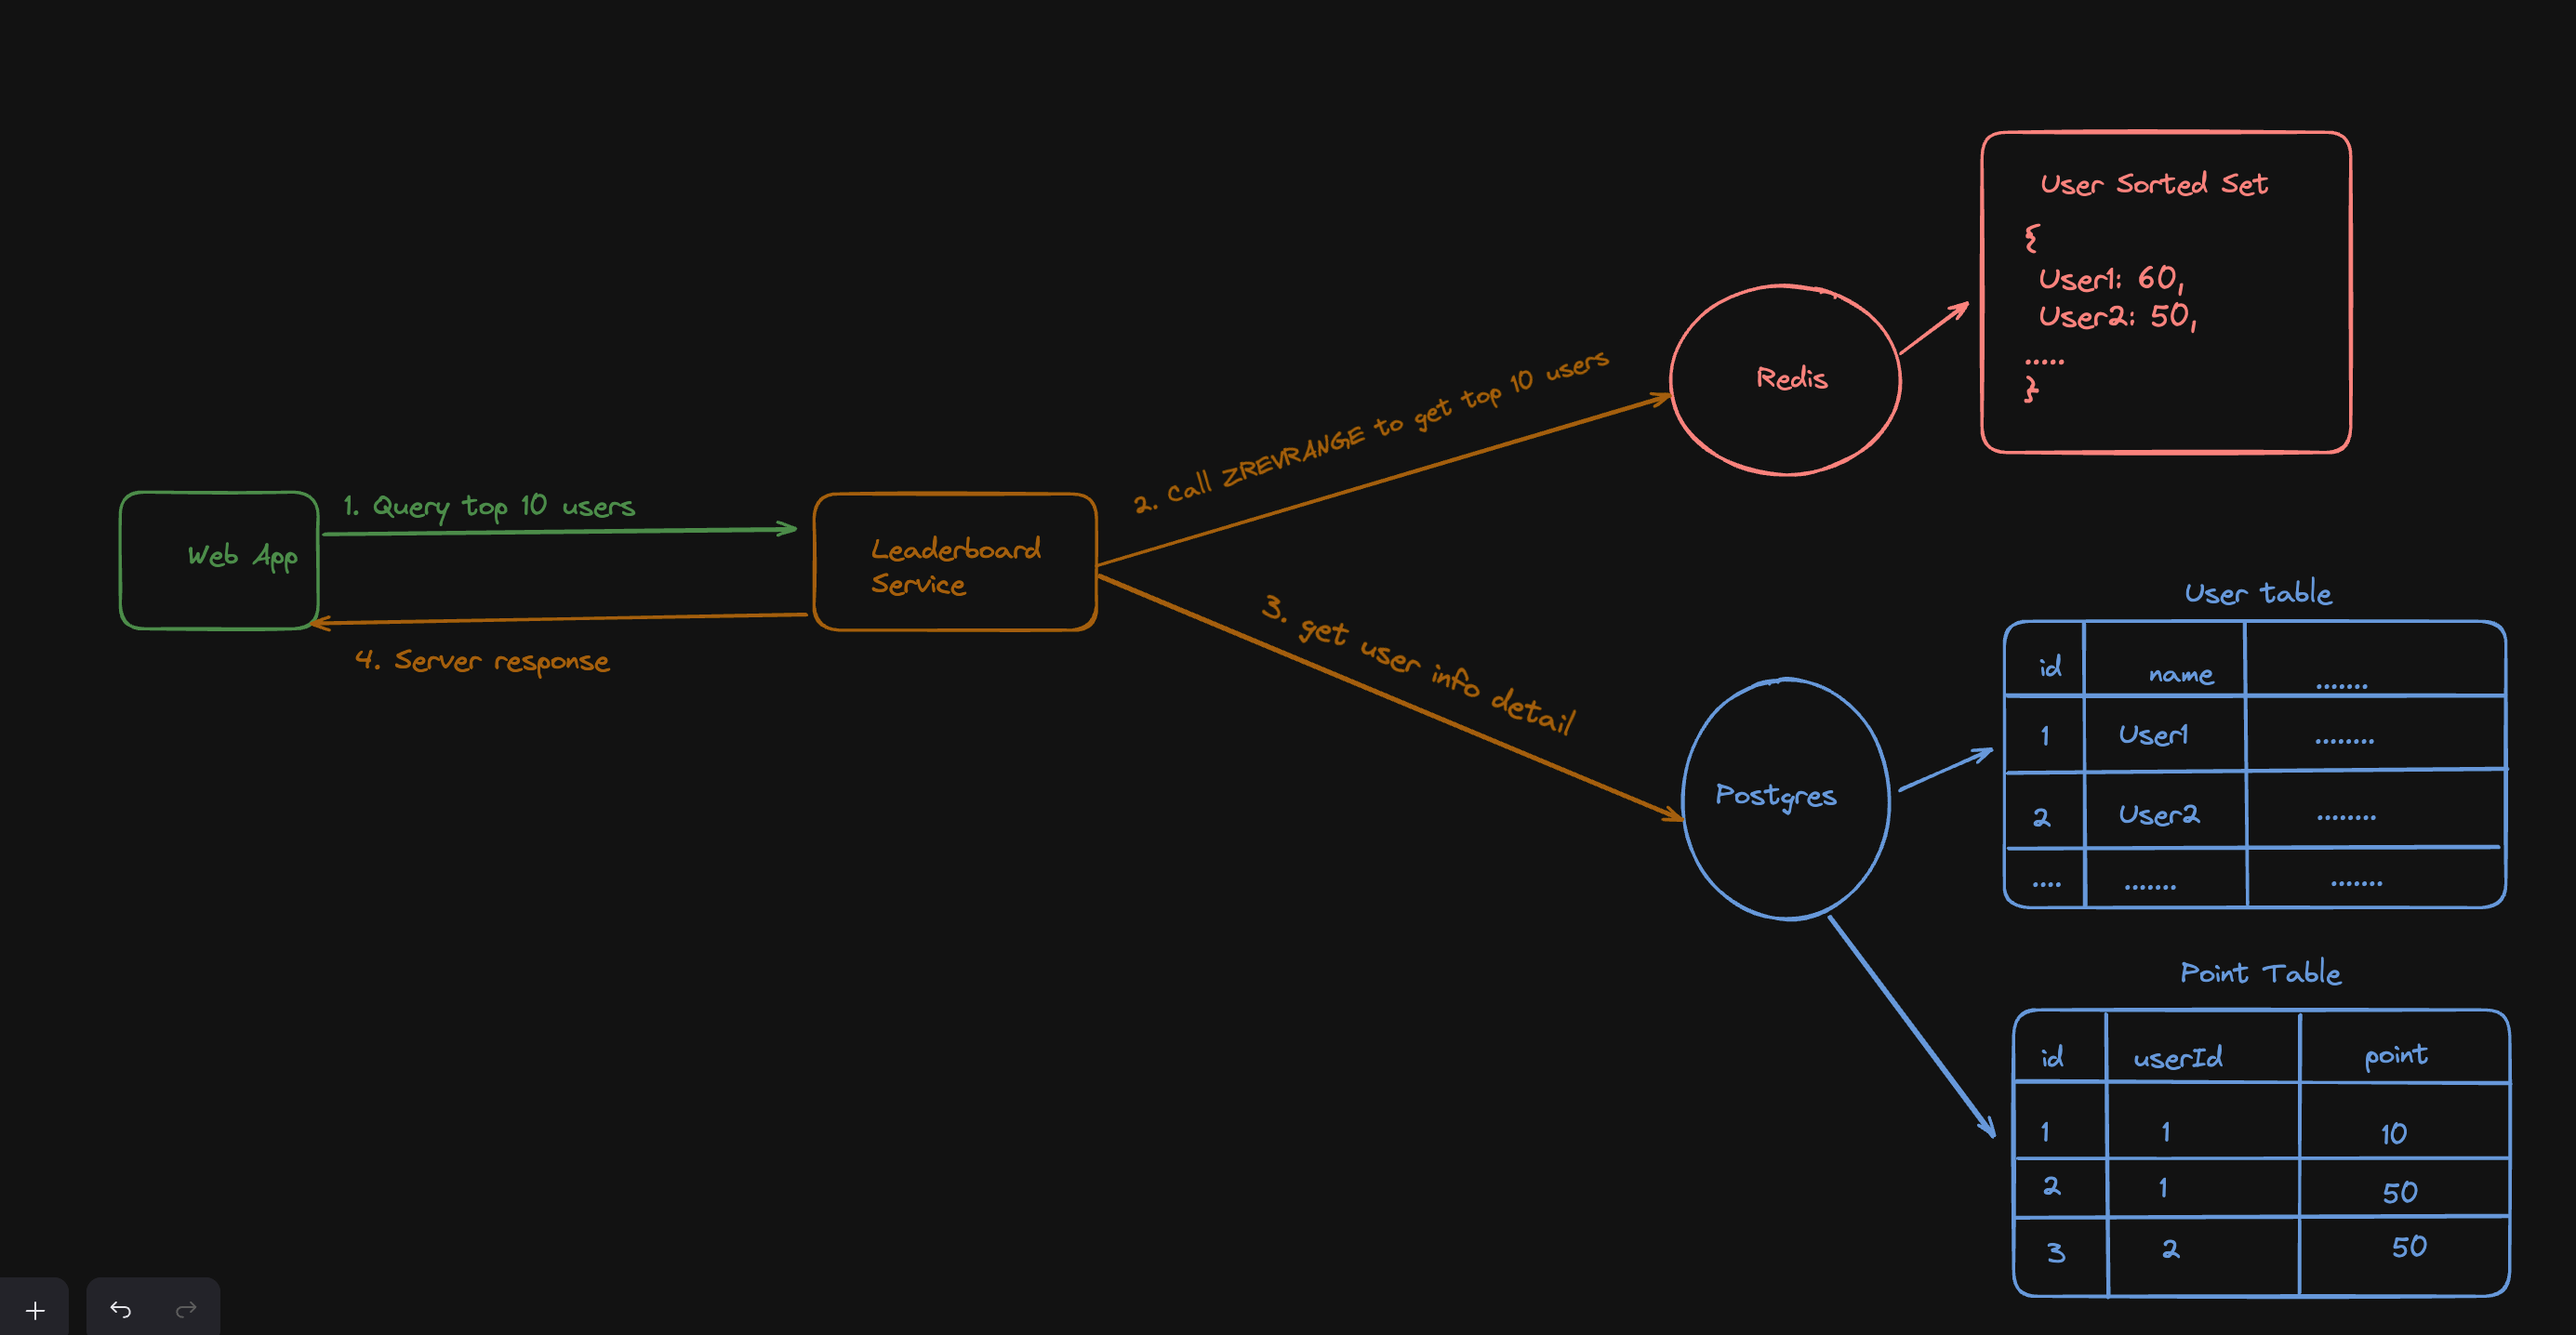
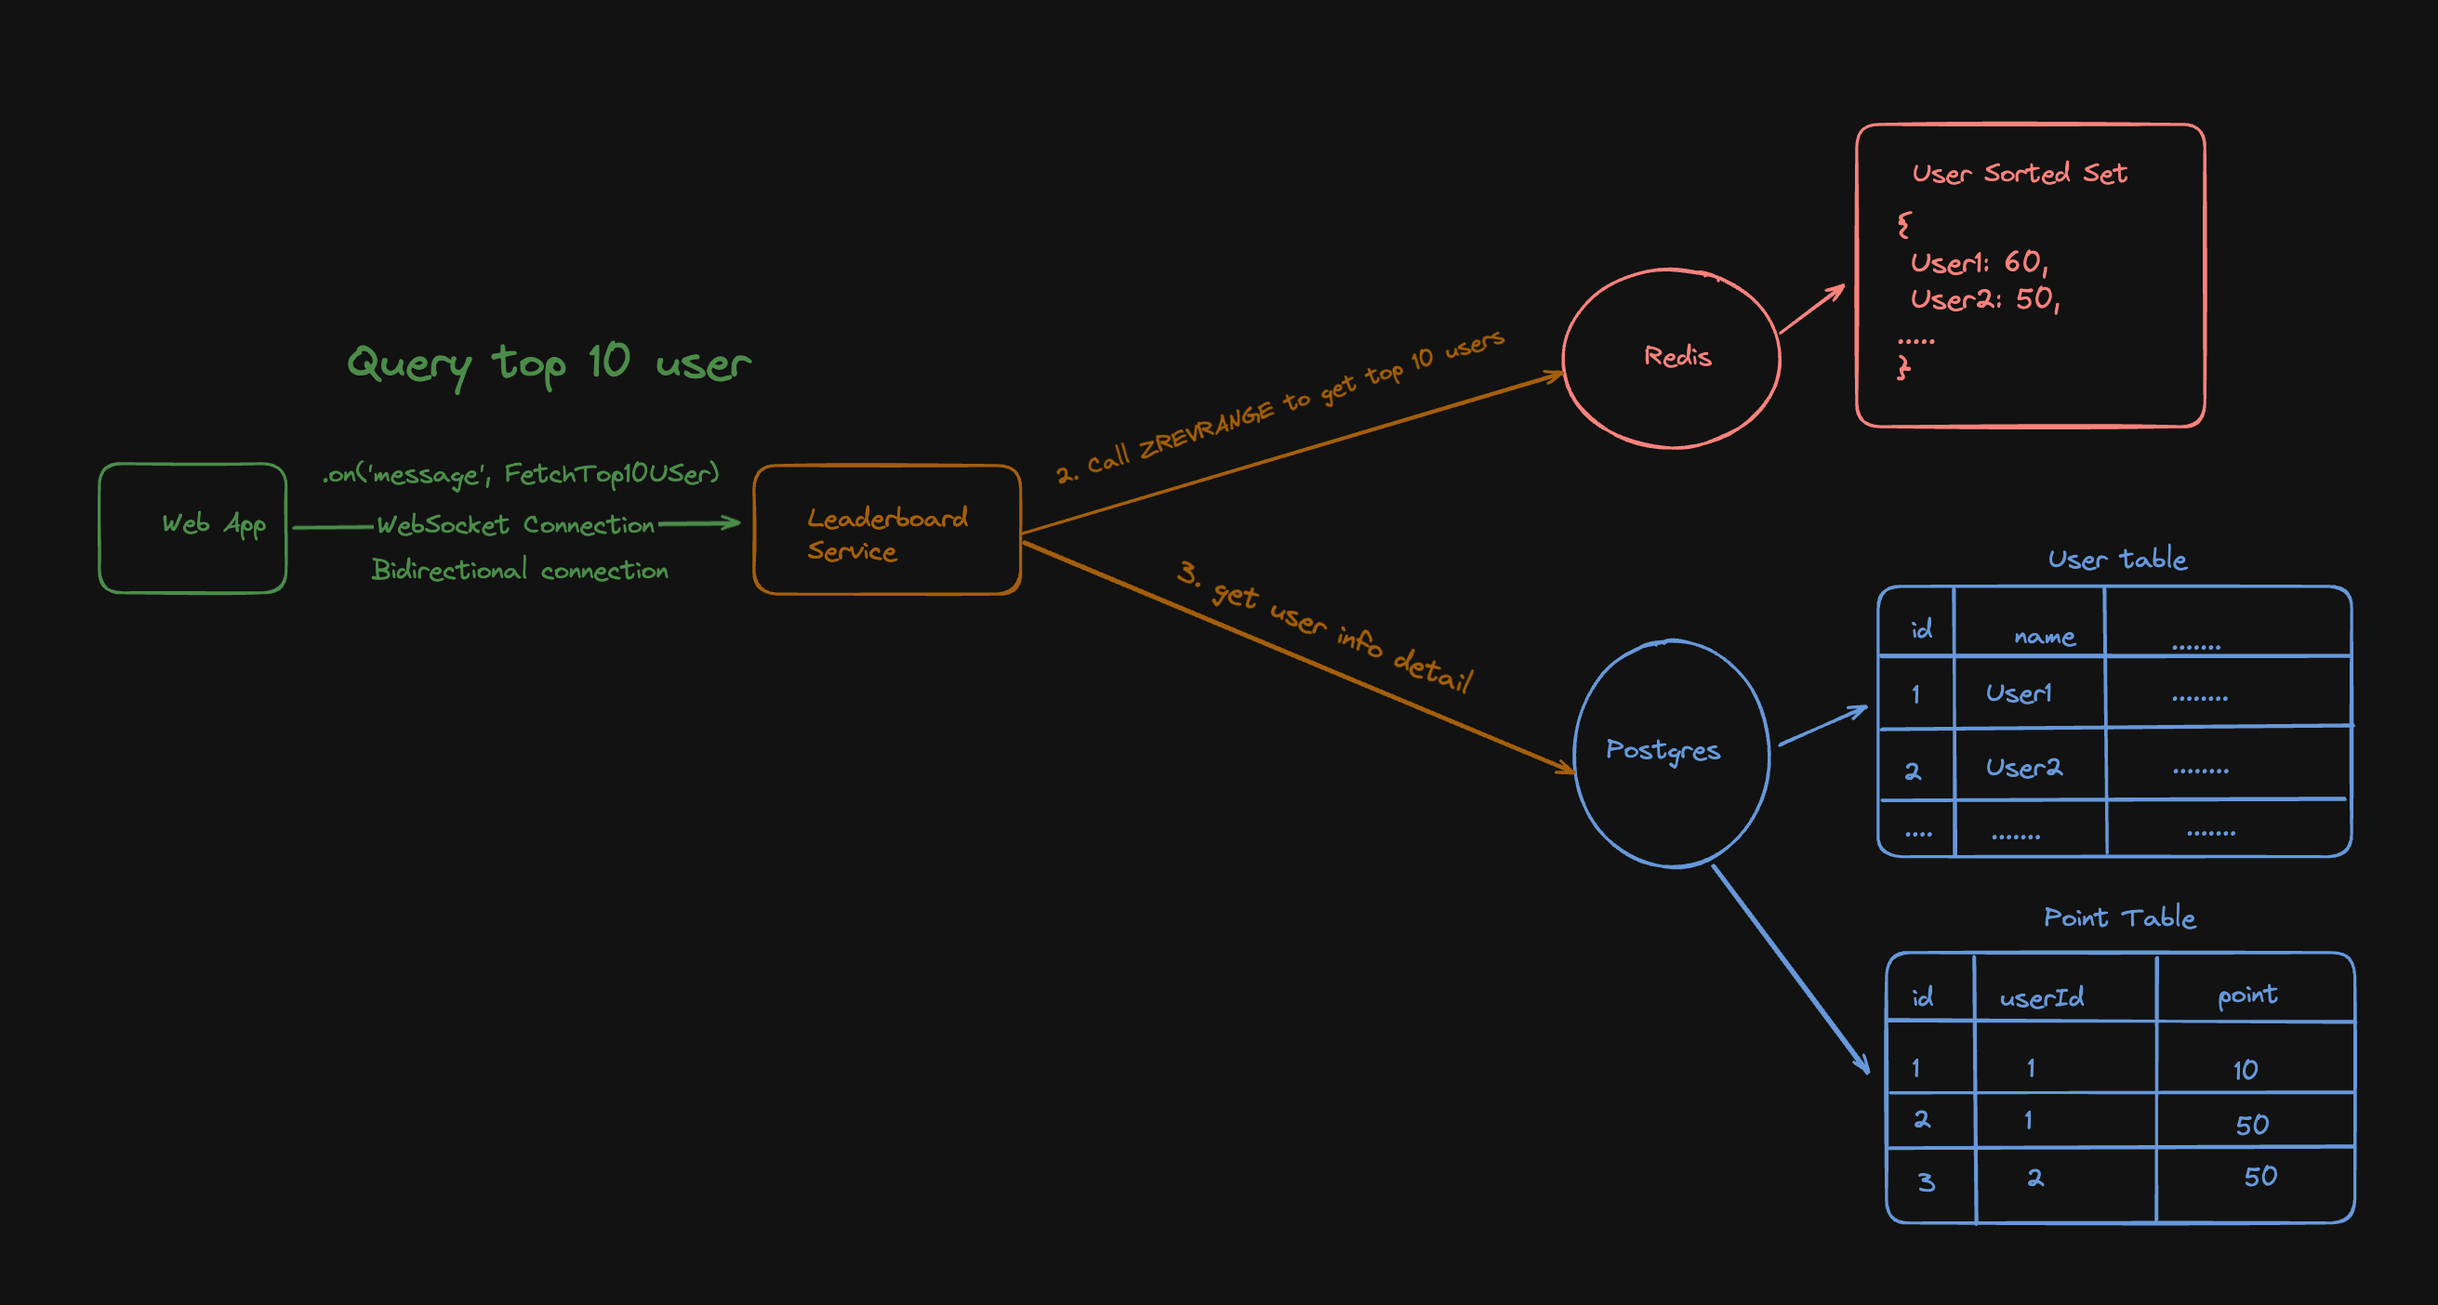
feat: provide technical doc

diff --git a/3_Architecture/README.md b/3_Architecture/README.md
@@ -15,4 +15,81 @@
 ![System_Design](./Fetch_Top_10.png)
 
 2. Write new scores & Update dashboard
+
+![System_Design](./Insert_User_New_Score.png)
+
+### List of required APIs
+
+| HTTP Method |      API       |         Function Name | Is JWT Protected |
+| :---------- | :------------: | --------------------: | :--------------: |
+| GET         | /api/v1/scores | FetchTop10Leaderboard |        NO        |
+| POST        | /api/v1/scores |     UpdatePlayerScore |       YES        |
+
+### Tasks
+
+#### 1. Authentication & Authorization
+
+##### 1.1 Definition of Done
+
+- Protect routes that are mark as "Is JWT Protected"
+- Implement JWT signing & verification flow
+- Recommended JWT Implementation approach - Using a pair of Access Token & Refresh Token
+
+1. Access Token should be valid for 10 minutes
+2. Refresh Token should be valid for a week
+
+##### 1.2 Implementation flow
+
+- Because the implementation is not required in the test. So, I will assume that if implemented, I will satisfy my Definition of Done.
+
+#### 2. Get the list of Top 10 Leaderboard Players
+
+##### 2.1 Definition of Done
+
+- API Name: [GET] /api/v1/scores
+
+- The Web App must render the latest Top 10 Players. The WebApp and Leaderboard Service must establish a relationship with leaderboard service. There are several options to achieve it.
+
+  - WebSocket - Sub Miliseconds Update but CPU & Memory Expensive (Stateful)
+    > [!NOTE]
+    > WebSocket is chosen in My Architecture Design. Alternatives are listed below.
+  - Long Pooling - Miliseconds Update but less CPU & Memory Expensive && Easy to implement (Stateless)
+  - Short Pooling - Miliseconds Update but more expensive than Long Pooling, because of chattiness (Stateless) - Rarely used.
+
+- Provide low response time (<200ms)
+
+  - Leverage Sorted Sets DSA in Redis to rank players based on scores - All Players are ranked in this data structure
+  - Cache the top 10 player in Redis.
+  - Persist user info & individual player scoring in persistent medium
+    > [!NOTE]
+    > Recommended Postgres
+
+##### 2.2 Architecture Design
+
+![System_Design](./Fetch_Top_10.png)
+
+#### 3. Insert Player's new scores
+
+##### 3.1 Definition of Done
+
+- API Name: [POST] /api/v1/scores
+
+- Verify player's identify using JWT token in the request **Authorization** header
+
+- Check that the player still exists in the postgres database before inserting new scores
+
+- Insert the score in **POINT TABLE**
+
+- Use ZINCRBY to update player's accumulated score in Redis's Sorted Set
+
+- [OPTIONAL] Invalidate the Top10 cache (if you take the optional step above)
+
+- Notify WebSocket connection if there is a change in Top 10 Leaderboard
+
+  > [!IMPORTANT]
+  > The reference to these WebSocket connections are stored in the Leaderboard Service Heap Memory. If the service crashes, all connections are technically lost.
+  > So it is very important to have some logic to handle the re-establishment of dropped connection
+
+##### 3.2 Architecture Design
+
 ![System_Design](./Insert_User_New_Score.png)
